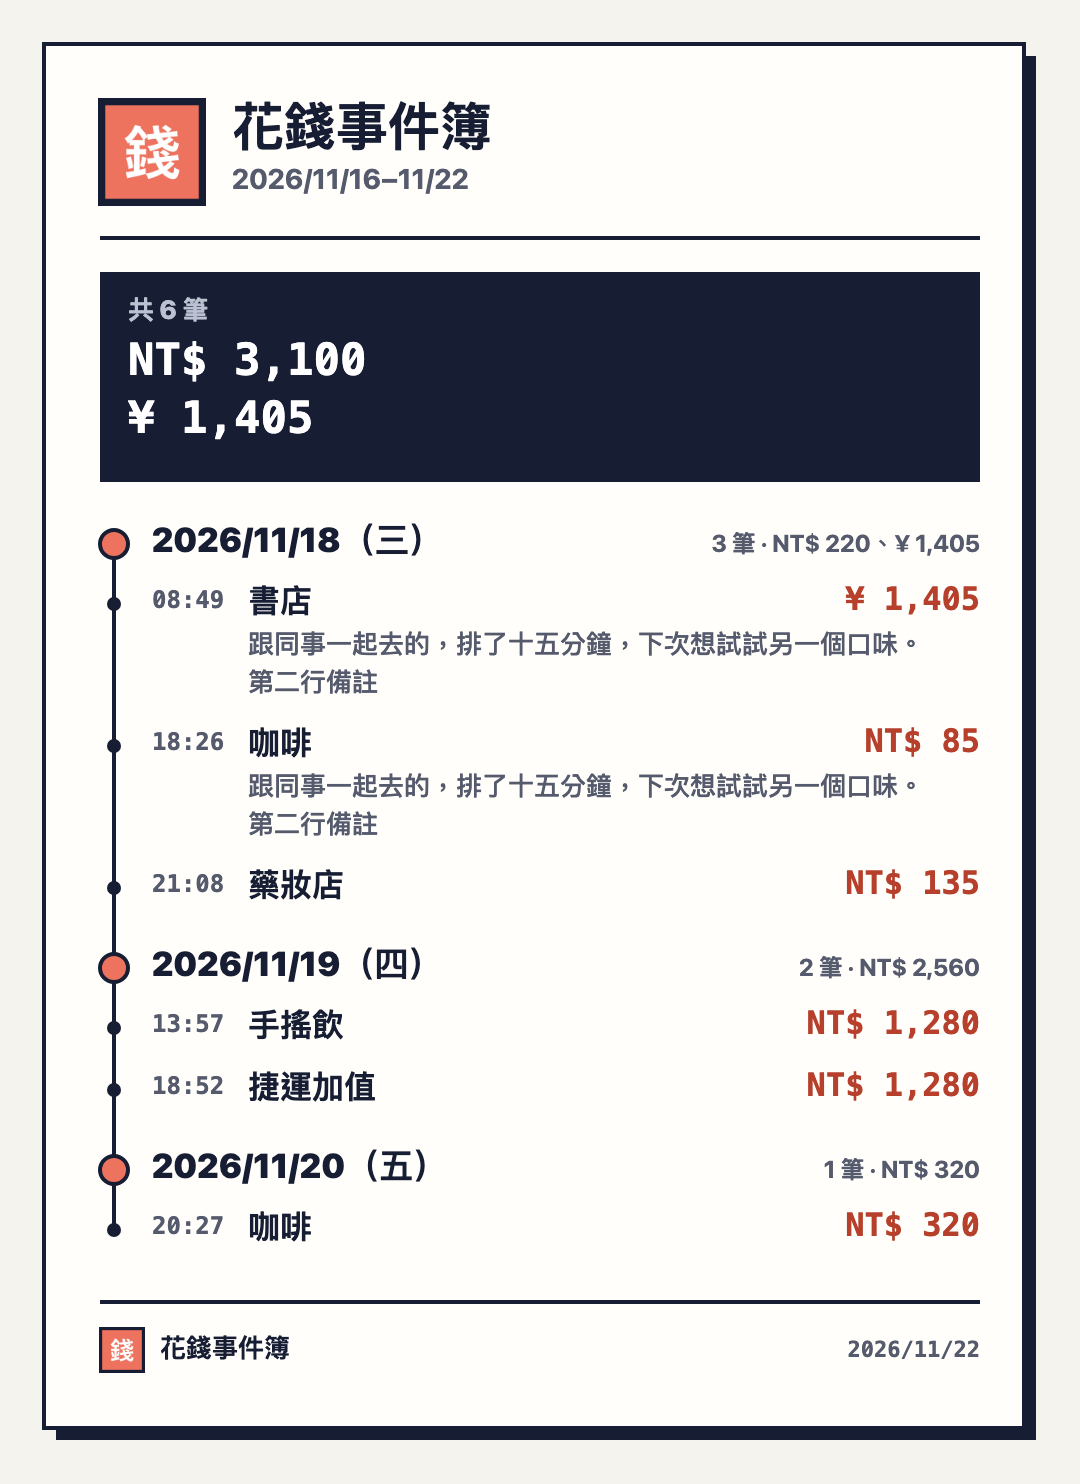
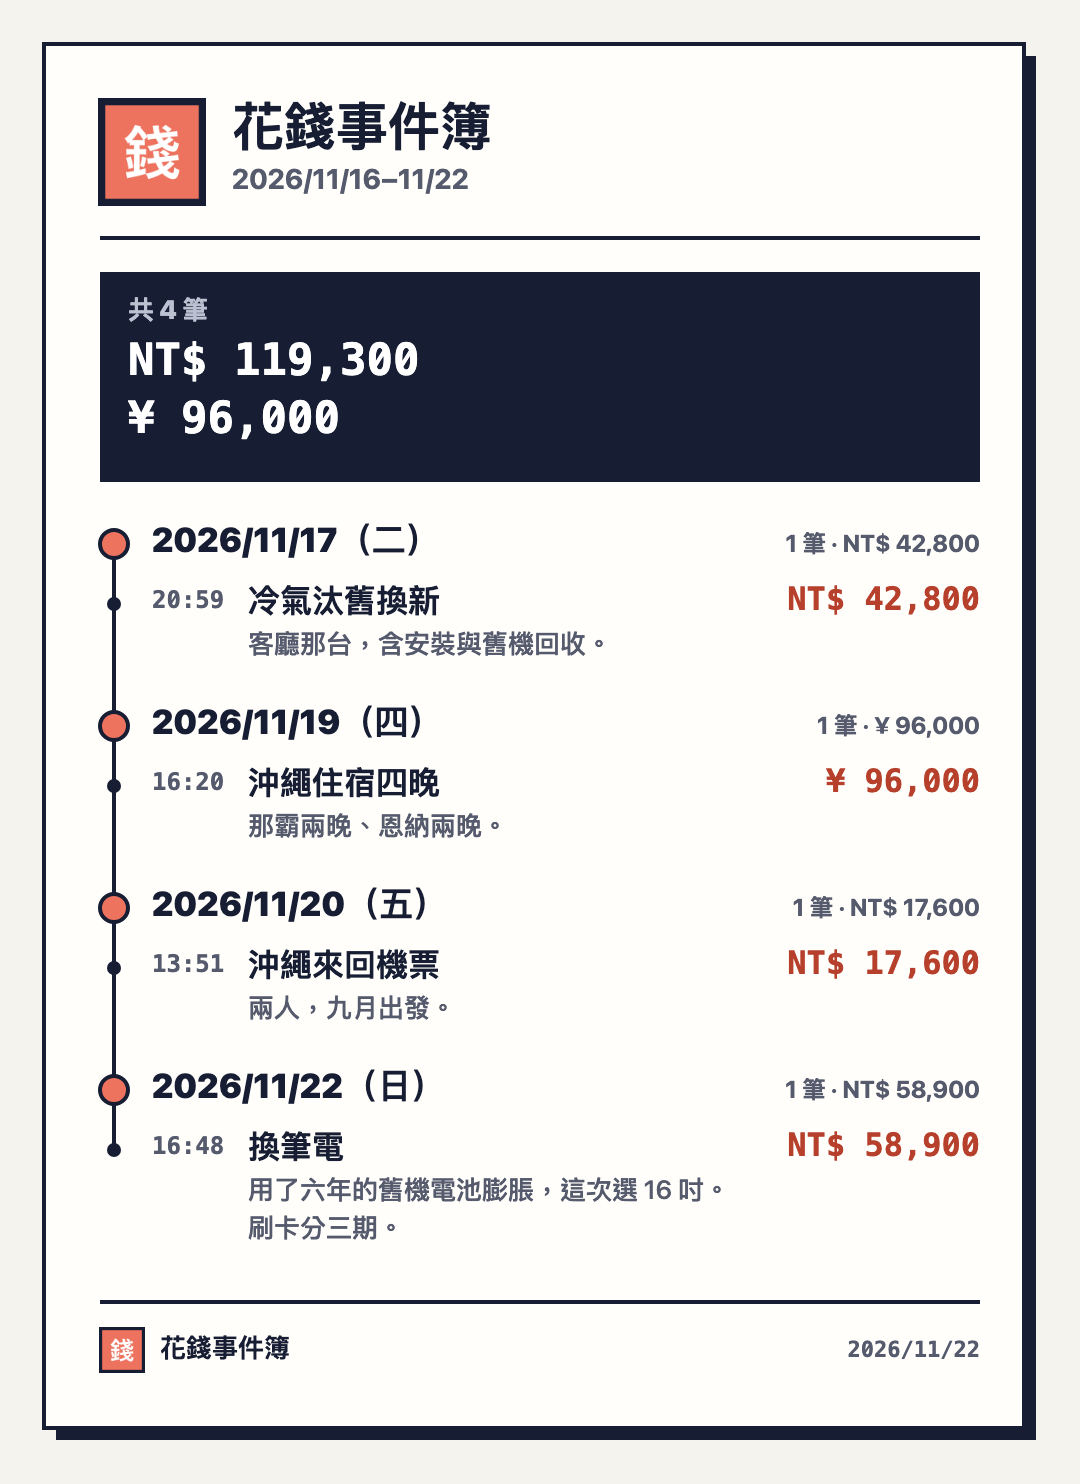
docs: 文案定位改為花大錢的事件紀錄
- 各頁標題、導言、欄位提示、空白狀態與範例改從大筆花費、重要的事出發
- 首屏主標改「花大錢／事件簿」，標語改「大筆的錢、重要的事，記一筆」
- README 開頭改寫定位，補〈適合記什麼〉；截圖換成大筆花費的示範資料
- AGENTS.md 新增〈產品定位〉：記事件不記流水帳、文案寫法、不做的功能

diff --git a/public/edit.html b/public/edit.html
@@ -4,7 +4,7 @@
 <meta charset="utf-8">
 <meta name="viewport" content="width=device-width, initial-scale=1, viewport-fit=cover">
 <title>記一筆｜花錢事件簿</title>
-<meta name="description" content="花錢事件簿：錢花去哪，翻一下就知道">
+<meta name="description" content="花錢事件簿：大筆的錢、重要的事，記一筆">
 <meta name="robots" content="noindex">
 <script>if (typeof HTMLDialogElement === "function") document.documentElement.classList.add("has-dialog");</script>
 <link rel="stylesheet" href="jerry-ui.css">
@@ -28,8 +28,8 @@
 <header class="masthead">
   <p class="eyebrow">NEW RECORD</p>
   <div class="masthead-grid">
-    <h1><span>花了什麼</span><em>記一筆</em></h1>
-    <p class="lede">剛付完錢，趁還記得記下來。</p>
+    <h1><span>花了大錢</span><em>記一筆</em></h1>
+    <p class="lede">剛花了一筆大的，趁還記得為什麼，記下來。</p>
   </div>
 </header>
 <main id="main">
@@ -43,11 +43,11 @@
 <form class="app-form" id="record-form" novalidate>
 <div class="card-grid"><section class="card accent-coral is-roomy" aria-labelledby="basic-title"><div class="card-heading">
   <span class="index-badge" aria-hidden="true">01</span>
-  <div><h2 id="basic-title">花了什麼</h2><p>標題、金額與時間</p></div>
+  <div><h2 id="basic-title">花在哪件事</h2><p>哪件事、花了多少、什麼時候</p></div>
 </div>
 <div class="stack"><div class="field">
   <label for="title">標題</label>
-  <input id="title" maxlength="100" autocomplete="off" type="text" placeholder="例如：午餐便當" required>
+  <input id="title" maxlength="100" autocomplete="off" type="text" placeholder="例如：換筆電、沖繩機票" required>
 </div>
 <div class="field-row"><div class="field">
   <label for="currency">幣別</label>
@@ -67,12 +67,12 @@
 </div>
 <div class="field">
   <label for="description">描述（選填）</label>
-  <textarea id="description" placeholder="買了什麼、在哪裡、為什麼…" maxlength="1024" spellcheck="false" aria-describedby="description-hint"></textarea>
+  <textarea id="description" placeholder="為什麼花這筆、在哪裡買、值不值得…" maxlength="1024" spellcheck="false" aria-describedby="description-hint"></textarea>
   <p class="hint" id="description-hint">0／1024 字</p>
 </div></div></section>
 <section class="card accent-green is-roomy" aria-labelledby="photo-title"><div class="card-heading">
   <span class="index-badge" aria-hidden="true">02</span>
-  <div><h2 id="photo-title">照片（選填）</h2><p>一筆一張；上傳前在裝置上壓縮，不保留原檔</p></div>
+  <div><h2 id="photo-title">照片（選填）</h2><p>收據或實物一張；上傳前在裝置上壓縮</p></div>
 </div>
 <div class="stack"><div class="actions"><button class="btn" type="button" id="camera-btn">拍照</button><button class="btn secondary" type="button" id="pick-btn">從相簿選擇</button></div>
 <input class="app-file" id="camera-input" type="file" accept="image/*" capture="environment" aria-label="拍照" hidden>
@@ -95,7 +95,7 @@
 </aside>
 </form></div>
 </main>
-<footer class="site-foot is-mono">花錢事件簿 · 錢花去哪，翻一下就知道 · © 2026 lazyjerry</footer>
+<footer class="site-foot is-mono">花錢事件簿 · 大筆的錢、重要的事，記一筆 · © 2026 lazyjerry</footer>
 </div>
 <img class="jerry-mark" src="jerry.png" width="1" height="1" alt="" aria-hidden="true">
 </body>

diff --git a/public/index.html b/public/index.html
@@ -4,7 +4,7 @@
 <meta charset="utf-8">
 <meta name="viewport" content="width=device-width, initial-scale=1, viewport-fit=cover">
 <title>紀錄｜花錢事件簿</title>
-<meta name="description" content="花錢事件簿：錢花去哪，翻一下就知道">
+<meta name="description" content="花錢事件簿：大筆的錢、重要的事，記一筆">
 <meta name="robots" content="noindex">
 <script>if (typeof HTMLDialogElement === "function") document.documentElement.classList.add("has-dialog");</script>
 <link rel="stylesheet" href="jerry-ui.css">
@@ -26,10 +26,10 @@
   <div class="top-end"><button class="btn is-sm secondary" type="button" id="refresh-btn">重新整理</button><button class="btn is-sm secondary" type="button" id="logout-btn">登出</button></div>
 </header>
 <header class="masthead">
-  <p class="eyebrow">SPENDING LOG</p>
+  <p class="eyebrow">BIG SPENDING LOG</p>
   <div class="masthead-grid">
-    <h1><span>花錢事件簿</span><em>紀錄</em></h1>
-    <p class="lede">錢花去哪了，翻一下就知道。</p>
+    <h1><span>花大錢</span><em>事件簿</em></h1>
+    <p class="lede">買車、旅行、換家電，把值得記住的大筆花費一筆筆留下來。</p>
   </div>
 </header>
 <main id="main">
@@ -42,17 +42,17 @@
 </nav>
 <div class="card-grid"><section class="card accent-coral is-roomy is-wide" aria-labelledby="add-title"><div class="card-heading">
   <span class="index-badge" aria-hidden="true">01</span>
-  <div><h2 id="add-title">記下一筆</h2><p>標題與金額必填，描述和照片可以之後再補</p></div>
+  <div><h2 id="add-title">記下一筆大的</h2><p>金額大或對你重要的才記，日常小額不必進來</p></div>
 </div>
 <div class="actions"><a class="btn" href="/edit">新增紀錄</a></div></section>
 <section class="card accent-blue is-roomy is-wide" aria-labelledby="list-title"><div class="card-heading">
   <span class="index-badge" aria-hidden="true">02</span>
-  <div><h2 id="list-title">翻紀錄</h2><p>搜尋，或換成時間軸、月曆、週曆、日曆來看</p></div>
+  <div><h2 id="list-title">翻大事</h2><p>搜尋，或換成時間軸、月曆、週曆、日曆來看</p></div>
 </div>
 <div class="stack"><form class="panel" id="search-form"><div class="field">
   <label for="q">關鍵字</label>
   <div class="input-group">
-  <input id="q" type="search" placeholder="例如：午餐 便當" autocomplete="off" spellcheck="false" enterkeyhint="search">
+  <input id="q" type="search" placeholder="例如：機票 沖繩" autocomplete="off" spellcheck="false" enterkeyhint="search">
   <button type="submit" id="search-btn" aria-label="搜尋紀錄">搜尋</button>
 </div>
   <p class="hint">比對標題與描述；以空白分隔多個關鍵字，全部符合才列出</p>
@@ -76,7 +76,7 @@
 <div class="app-view" id="view"></div>
 <button hidden class="btn secondary" type="button" id="more-btn">載入更多</button></div></section></div></div>
 </main>
-<footer class="site-foot is-mono">花錢事件簿 · 錢花去哪，翻一下就知道 · © 2026 lazyjerry</footer>
+<footer class="site-foot is-mono">花錢事件簿 · 大筆的錢、重要的事，記一筆 · © 2026 lazyjerry</footer>
 </div>
 <img class="jerry-mark" src="jerry.png" width="1" height="1" alt="" aria-hidden="true">
 </body>

diff --git a/public/stats.html b/public/stats.html
@@ -4,7 +4,7 @@
 <meta charset="utf-8">
 <meta name="viewport" content="width=device-width, initial-scale=1, viewport-fit=cover">
 <title>統計｜花錢事件簿</title>
-<meta name="description" content="花錢事件簿：錢花去哪，翻一下就知道">
+<meta name="description" content="花錢事件簿：大筆的錢、重要的事，記一筆">
 <meta name="robots" content="noindex">
 <script>if (typeof HTMLDialogElement === "function") document.documentElement.classList.add("has-dialog");</script>
 <link rel="stylesheet" href="jerry-ui.css">
@@ -29,7 +29,7 @@
   <p class="eyebrow">STATISTICS</p>
   <div class="masthead-grid">
     <h1><span>花費</span><em>統計</em></h1>
-    <p class="lede">選一段時間，看錢都花在哪幾天。</p>
+    <p class="lede">選一段時間，看大筆的錢花在哪些事上。</p>
   </div>
 </header>
 <main id="main">
@@ -81,7 +81,7 @@
 </dl></section>
 <section class="card accent-violet is-roomy is-wide" aria-labelledby="trend-title"><div class="card-heading">
   <span class="index-badge" aria-hidden="true">03</span>
-  <div><h2 id="trend-title">花費走勢</h2><p id="trend-sub">每天花了多少</p></div>
+  <div><h2 id="trend-title">花費走勢</h2><p id="trend-sub">大筆的錢落在哪幾天</p></div>
 </div>
 <div class="stack"><div class="app-chart" id="trend-chart"></div>
 <details class="app-chart-data"><summary>看數字表</summary><div id="trend-table"></div></details></div></section>
@@ -97,11 +97,11 @@
 <div class="app-chart" id="hour-chart"></div></section>
 <section class="card accent-coral is-roomy is-wide" aria-labelledby="top-title"><div class="card-heading">
   <span class="index-badge" aria-hidden="true">06</span>
-  <div><h2 id="top-title">最花錢的 10 筆</h2><p>點標題可以修改</p></div>
+  <div><h2 id="top-title">最大的 10 筆</h2><p>這段時間金額最高的事，點標題可以修改</p></div>
 </div>
 <ol class="app-rank" id="top-list"></ol></section></div></div>
 </main>
-<footer class="site-foot is-mono">花錢事件簿 · 錢花去哪，翻一下就知道 · © 2026 lazyjerry</footer>
+<footer class="site-foot is-mono">花錢事件簿 · 大筆的錢、重要的事，記一筆 · © 2026 lazyjerry</footer>
 </div>
 <img class="jerry-mark" src="jerry.png" width="1" height="1" alt="" aria-hidden="true">
 </body>

diff --git a/public/login.html b/public/login.html
@@ -4,7 +4,7 @@
 <meta charset="utf-8">
 <meta name="viewport" content="width=device-width, initial-scale=1, viewport-fit=cover">
 <title>登入｜花錢事件簿</title>
-<meta name="description" content="花錢事件簿：錢花去哪，翻一下就知道">
+<meta name="description" content="花錢事件簿：大筆的錢、重要的事，記一筆">
 <meta name="robots" content="noindex">
 <script>if (typeof HTMLDialogElement === "function") document.documentElement.classList.add("has-dialog");</script>
 <link rel="stylesheet" href="jerry-ui.css">
@@ -27,16 +27,16 @@
   <div class="top-end"><p class="pill">PRIVATE · PASSKEY</p></div>
 </header>
 <header class="masthead">
-  <p class="eyebrow">SPENDING LOG</p>
+  <p class="eyebrow">BIG SPENDING LOG</p>
   <div class="masthead-grid">
-    <h1><span>花錢事件簿</span><em>登入</em></h1>
-    <p class="lede">打開只屬於你的花錢紀錄。</p>
+    <h1><span>花大錢事件簿</span><em>登入</em></h1>
+    <p class="lede">打開只屬於你的大筆花費紀錄。</p>
   </div>
 </header>
 <main id="main">
 <div class="stack"><div class="card-grid"><section class="card accent-coral is-roomy" aria-labelledby="login-title"><div class="card-heading">
   <span class="index-badge" aria-hidden="true">01</span>
-  <div><h2 id="login-title">登入</h2><p>這是私人紀錄，需要通行金鑰或密碼才能使用</p></div>
+  <div><h2 id="login-title">登入</h2><p>私人的大筆花費紀錄，要通行金鑰或密碼</p></div>
 </div>
 <div class="stack"><div class="stack"><button class="btn is-block" type="button" id="passkey-btn" hidden>用通行金鑰登入<span class="btn-arrow" aria-hidden="true">→</span></button>
 <p class="status" id="passkey-status" role="alert"></p></div>
@@ -55,7 +55,7 @@
 <button class="btn is-block" type="submit">登入<span class="btn-arrow" aria-hidden="true">→</span></button>
 <p class="status" id="login-status" role="alert"></p></form></div></section></div></div>
 </main>
-<footer class="site-foot is-mono">花錢事件簿 · 錢花去哪，翻一下就知道 · © 2026 lazyjerry</footer>
+<footer class="site-foot is-mono">花錢事件簿 · 大筆的錢、重要的事，記一筆 · © 2026 lazyjerry</footer>
 </div>
 <img class="jerry-mark" src="jerry.png" width="1" height="1" alt="" aria-hidden="true">
 </body>

diff --git a/scripts/pages/edit.html b/scripts/pages/edit.html
@@ -1,11 +1,11 @@
 <form class="app-form" id="record-form" novalidate>
 <div class="card-grid"><section class="card accent-coral is-roomy" aria-labelledby="basic-title"><div class="card-heading">
   <span class="index-badge" aria-hidden="true">01</span>
-  <div><h2 id="basic-title">花了什麼</h2><p>標題、金額與時間</p></div>
+  <div><h2 id="basic-title">花在哪件事</h2><p>哪件事、花了多少、什麼時候</p></div>
 </div>
 <div class="stack"><div class="field">
   <label for="title">標題</label>
-  <input id="title" maxlength="100" autocomplete="off" type="text" placeholder="例如：午餐便當" required>
+  <input id="title" maxlength="100" autocomplete="off" type="text" placeholder="例如：換筆電、沖繩機票" required>
 </div>
 <div class="field-row"><div class="field">
   <label for="currency">幣別</label>
@@ -25,12 +25,12 @@
 </div>
 <div class="field">
   <label for="description">描述（選填）</label>
-  <textarea id="description" placeholder="買了什麼、在哪裡、為什麼…" maxlength="1024" spellcheck="false" aria-describedby="description-hint"></textarea>
+  <textarea id="description" placeholder="為什麼花這筆、在哪裡買、值不值得…" maxlength="1024" spellcheck="false" aria-describedby="description-hint"></textarea>
   <p class="hint" id="description-hint">0／1024 字</p>
 </div></div></section>
 <section class="card accent-green is-roomy" aria-labelledby="photo-title"><div class="card-heading">
   <span class="index-badge" aria-hidden="true">02</span>
-  <div><h2 id="photo-title">照片（選填）</h2><p>一筆一張；上傳前在裝置上壓縮，不保留原檔</p></div>
+  <div><h2 id="photo-title">照片（選填）</h2><p>收據或實物一張；上傳前在裝置上壓縮</p></div>
 </div>
 <div class="stack"><div class="actions"><button class="btn" type="button" id="camera-btn">拍照</button><button class="btn secondary" type="button" id="pick-btn">從相簿選擇</button></div>
 <input class="app-file" id="camera-input" type="file" accept="image/*" capture="environment" aria-label="拍照" hidden>

diff --git a/public/share.html b/public/share.html
@@ -4,7 +4,7 @@
 <meta charset="utf-8">
 <meta name="viewport" content="width=device-width, initial-scale=1, viewport-fit=cover">
 <title>分享｜花錢事件簿</title>
-<meta name="description" content="花錢事件簿：錢花去哪，翻一下就知道">
+<meta name="description" content="花錢事件簿：大筆的錢、重要的事，記一筆">
 <meta name="robots" content="noindex">
 <script>if (typeof HTMLDialogElement === "function") document.documentElement.classList.add("has-dialog");</script>
 <link rel="stylesheet" href="jerry-ui.css">
@@ -29,7 +29,7 @@
   <p class="eyebrow">SHARE</p>
   <div class="masthead-grid">
     <h1><span>這段時間</span><em>分享</em></h1>
-    <p class="lede">挑一段日期，做成圖片或文字傳給別人。</p>
+    <p class="lede">挑一段日期，把這陣子的大筆花費做成圖片或文字。</p>
   </div>
 </header>
 <main id="main">
@@ -60,7 +60,7 @@
 </div></div>
 <div class="field">
   <label for="share-q">只含關鍵字（選填）</label>
-  <input id="share-q" type="search" placeholder="例如：旅行" autocomplete="off" spellcheck="false">
+  <input id="share-q" type="search" placeholder="例如：裝潢" autocomplete="off" spellcheck="false">
 </div>
 <fieldset class="segmented app-views">
   <legend class="visually-hidden">分享樣式</legend>
@@ -80,7 +80,7 @@
 <div class="actions"><button class="btn" type="button" id="share-btn" disabled>分享</button><button class="btn secondary" type="button" id="download-btn" disabled>下載圖片</button><button class="btn secondary" type="button" id="copy-btn" disabled hidden>複製文字</button></div>
 <p class="status" id="action-status" role="status"></p></div></section></div></div>
 </main>
-<footer class="site-foot is-mono">花錢事件簿 · 錢花去哪，翻一下就知道 · © 2026 lazyjerry</footer>
+<footer class="site-foot is-mono">花錢事件簿 · 大筆的錢、重要的事，記一筆 · © 2026 lazyjerry</footer>
 </div>
 <img class="jerry-mark" src="jerry.png" width="1" height="1" alt="" aria-hidden="true">
 </body>

diff --git a/scripts/pages/index.html b/scripts/pages/index.html
@@ -1,16 +1,16 @@
 <div class="card-grid"><section class="card accent-coral is-roomy is-wide" aria-labelledby="add-title"><div class="card-heading">
   <span class="index-badge" aria-hidden="true">01</span>
-  <div><h2 id="add-title">記下一筆</h2><p>標題與金額必填，描述和照片可以之後再補</p></div>
+  <div><h2 id="add-title">記下一筆大的</h2><p>金額大或對你重要的才記，日常小額不必進來</p></div>
 </div>
 <div class="actions"><a class="btn" href="/edit">新增紀錄</a></div></section>
 <section class="card accent-blue is-roomy is-wide" aria-labelledby="list-title"><div class="card-heading">
   <span class="index-badge" aria-hidden="true">02</span>
-  <div><h2 id="list-title">翻紀錄</h2><p>搜尋，或換成時間軸、月曆、週曆、日曆來看</p></div>
+  <div><h2 id="list-title">翻大事</h2><p>搜尋，或換成時間軸、月曆、週曆、日曆來看</p></div>
 </div>
 <div class="stack"><form class="panel" id="search-form"><div class="field">
   <label for="q">關鍵字</label>
   <div class="input-group">
-  <input id="q" type="search" placeholder="例如：午餐 便當" autocomplete="off" spellcheck="false" enterkeyhint="search">
+  <input id="q" type="search" placeholder="例如：機票 沖繩" autocomplete="off" spellcheck="false" enterkeyhint="search">
   <button type="submit" id="search-btn" aria-label="搜尋紀錄">搜尋</button>
 </div>
   <p class="hint">比對標題與描述；以空白分隔多個關鍵字，全部符合才列出</p>

diff --git a/public/offline.html b/public/offline.html
@@ -4,7 +4,7 @@
 <meta charset="utf-8">
 <meta name="viewport" content="width=device-width, initial-scale=1, viewport-fit=cover">
 <title>離線中｜花錢事件簿</title>
-<meta name="description" content="花錢事件簿：錢花去哪，翻一下就知道">
+<meta name="description" content="花錢事件簿：大筆的錢、重要的事，記一筆">
 <meta name="robots" content="noindex">
 <script>if (typeof HTMLDialogElement === "function") document.documentElement.classList.add("has-dialog");</script>
 <link rel="stylesheet" href="jerry-ui.css">
@@ -25,9 +25,9 @@
   <div class="top-end"><p class="pill">OFFLINE</p></div>
 </header>
 <header class="masthead">
-  <p class="eyebrow">SPENDING LOG</p>
+  <p class="eyebrow">BIG SPENDING LOG</p>
   <div class="masthead-grid">
-    <h1><span>花錢事件簿</span><em>離線</em></h1>
+    <h1><span>花大錢事件簿</span><em>離線</em></h1>
     <p class="lede">網路恢復後，從上次停下的地方繼續記。</p>
   </div>
 </header>
@@ -42,7 +42,7 @@
 </aside>
 <a class="btn" href="/">重新連線</a></div></section></div></div>
 </main>
-<footer class="site-foot is-mono">花錢事件簿 · 錢花去哪，翻一下就知道 · © 2026 lazyjerry</footer>
+<footer class="site-foot is-mono">花錢事件簿 · 大筆的錢、重要的事，記一筆 · © 2026 lazyjerry</footer>
 </div>
 <img class="jerry-mark" src="jerry.png" width="1" height="1" alt="" aria-hidden="true">
 </body>

diff --git a/scripts/pages/stats.html b/scripts/pages/stats.html
@@ -39,7 +39,7 @@
 </dl></section>
 <section class="card accent-violet is-roomy is-wide" aria-labelledby="trend-title"><div class="card-heading">
   <span class="index-badge" aria-hidden="true">03</span>
-  <div><h2 id="trend-title">花費走勢</h2><p id="trend-sub">每天花了多少</p></div>
+  <div><h2 id="trend-title">花費走勢</h2><p id="trend-sub">大筆的錢落在哪幾天</p></div>
 </div>
 <div class="stack"><div class="app-chart" id="trend-chart"></div>
 <details class="app-chart-data"><summary>看數字表</summary><div id="trend-table"></div></details></div></section>
@@ -55,6 +55,6 @@
 <div class="app-chart" id="hour-chart"></div></section>
 <section class="card accent-coral is-roomy is-wide" aria-labelledby="top-title"><div class="card-heading">
   <span class="index-badge" aria-hidden="true">06</span>
-  <div><h2 id="top-title">最花錢的 10 筆</h2><p>點標題可以修改</p></div>
+  <div><h2 id="top-title">最大的 10 筆</h2><p>這段時間金額最高的事，點標題可以修改</p></div>
 </div>
 <ol class="app-rank" id="top-list"></ol></section></div>

diff --git a/public/settings.html b/public/settings.html
@@ -4,7 +4,7 @@
 <meta charset="utf-8">
 <meta name="viewport" content="width=device-width, initial-scale=1, viewport-fit=cover">
 <title>設定｜花錢事件簿</title>
-<meta name="description" content="花錢事件簿：錢花去哪，翻一下就知道">
+<meta name="description" content="花錢事件簿：大筆的錢、重要的事，記一筆">
 <meta name="robots" content="noindex">
 <script>if (typeof HTMLDialogElement === "function") document.documentElement.classList.add("has-dialog");</script>
 <link rel="stylesheet" href="jerry-ui.css">
@@ -122,7 +122,7 @@
 <p class="status" id="account-status" role="status"></p></div></section></div>
 </form></div>
 </main>
-<footer class="site-foot is-mono">花錢事件簿 · 錢花去哪，翻一下就知道 · © 2026 lazyjerry</footer>
+<footer class="site-foot is-mono">花錢事件簿 · 大筆的錢、重要的事，記一筆 · © 2026 lazyjerry</footer>
 </div>
 <img class="jerry-mark" src="jerry.png" width="1" height="1" alt="" aria-hidden="true">
 </body>

diff --git a/public/js/stats.js b/public/js/stats.js
@@ -76,7 +76,7 @@ function render() {
       b.count += 1;
     }
   }
-  $("#trend-sub").textContent = daily ? "每天花了多少" : "每個月花了多少";
+  $("#trend-sub").textContent = daily ? "大筆的錢落在哪幾天" : "大筆的錢落在哪幾個月";
   const chartItems = (rows) => rows.map((b) => ({ label: b.label, value: b.value, title: `${b.name}：${money(b.value)}（${b.count} 筆）` }));
   barChart($("#trend-chart"), chartItems(buckets), { formatValue: money, formatTick: compactTick(currency), ariaLabel: `${daily ? "每日" : "每月"}花費長條圖` });
   $("#trend-table").innerHTML = `<table class="app-table"><thead><tr><th scope="col">${daily ? "日期" : "月份"}</th><th scope="col">筆數</th><th scope="col">花費</th></tr></thead><tbody>${buckets

diff --git a/scripts/pages/login.html b/scripts/pages/login.html
@@ -1,6 +1,6 @@
 <div class="stack"><div class="card-grid"><section class="card accent-coral is-roomy" aria-labelledby="login-title"><div class="card-heading">
   <span class="index-badge" aria-hidden="true">01</span>
-  <div><h2 id="login-title">登入</h2><p>這是私人紀錄，需要通行金鑰或密碼才能使用</p></div>
+  <div><h2 id="login-title">登入</h2><p>私人的大筆花費紀錄，要通行金鑰或密碼</p></div>
 </div>
 <div class="stack"><div class="stack"><button class="btn is-block" type="button" id="passkey-btn" hidden>用通行金鑰登入<span class="btn-arrow" aria-hidden="true">→</span></button>
 <p class="status" id="passkey-status" role="alert"></p></div>
